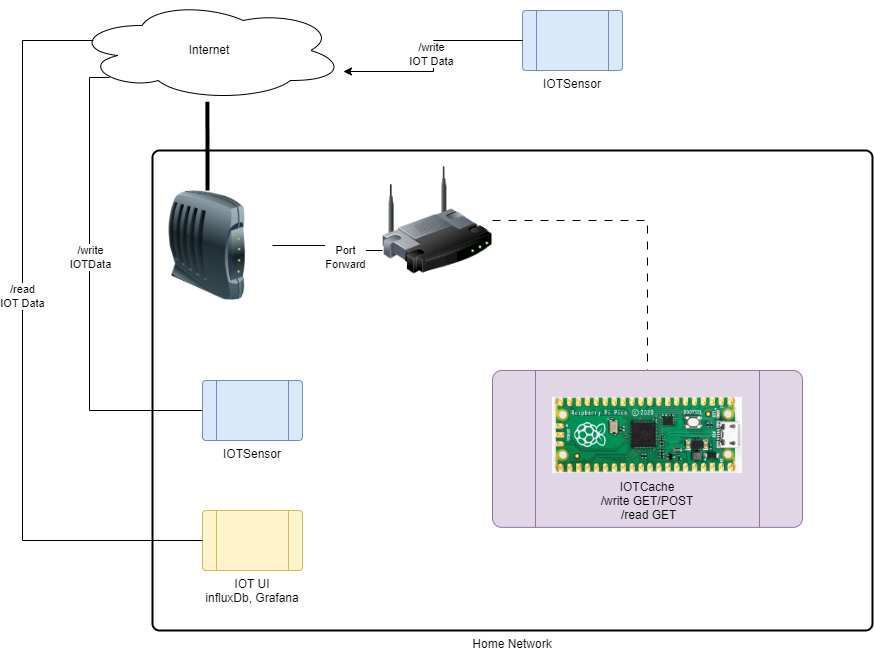
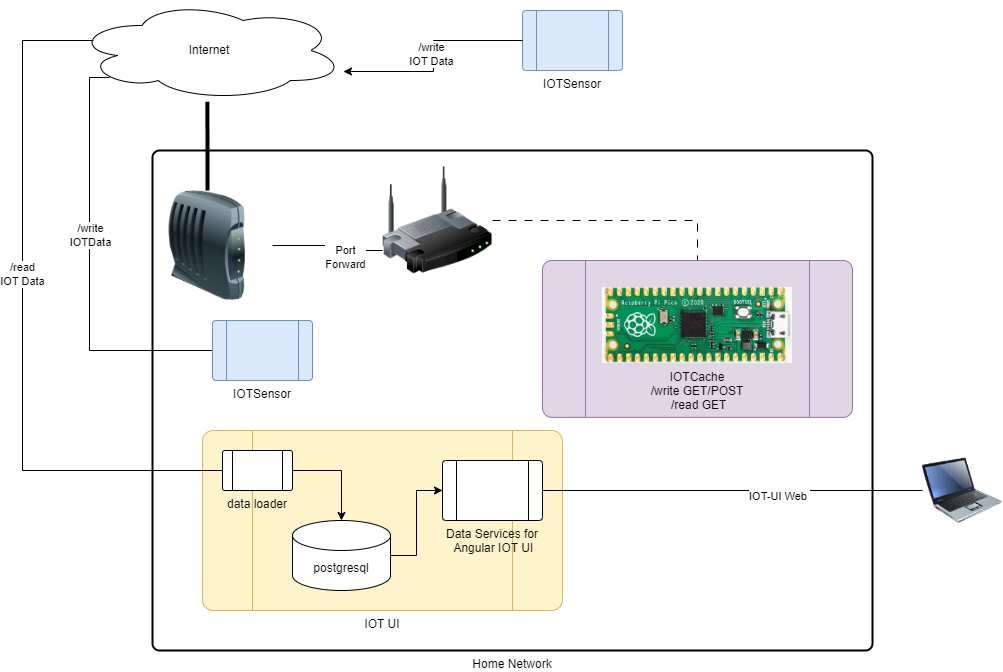
Update readme

diff --git a/README.md b/README.md
@@ -4,7 +4,7 @@
 
 Simple IOT transaction store for use on a home network. Only one port needs to be exposed via a firewall rule. For simplicity and to reducing functional complexity I run this on a dedicated microcontroler, hopefully, this makes hacking via the exposed port more difficult and reduces possible exposure to unknown code running on the device. IOTCache stores IOT transactions submitted using HTTP post (with json) or get (With query). Transaction can be retrieved using a simple HTTP read request for use in upstream applications.
 
-IOTCache is part of my IOT suite for my home network that includes IOTCache, IOTSensor and IOT UI (Python, influxDB and Grafana system)
+IOTCache is part of my IOT suite for my home network that includes IOTCache, IOTSensor and IOT UI (Python data loader and web services and a postgresql DB)
 
 ![image info](./iotCache.jpg)
 
